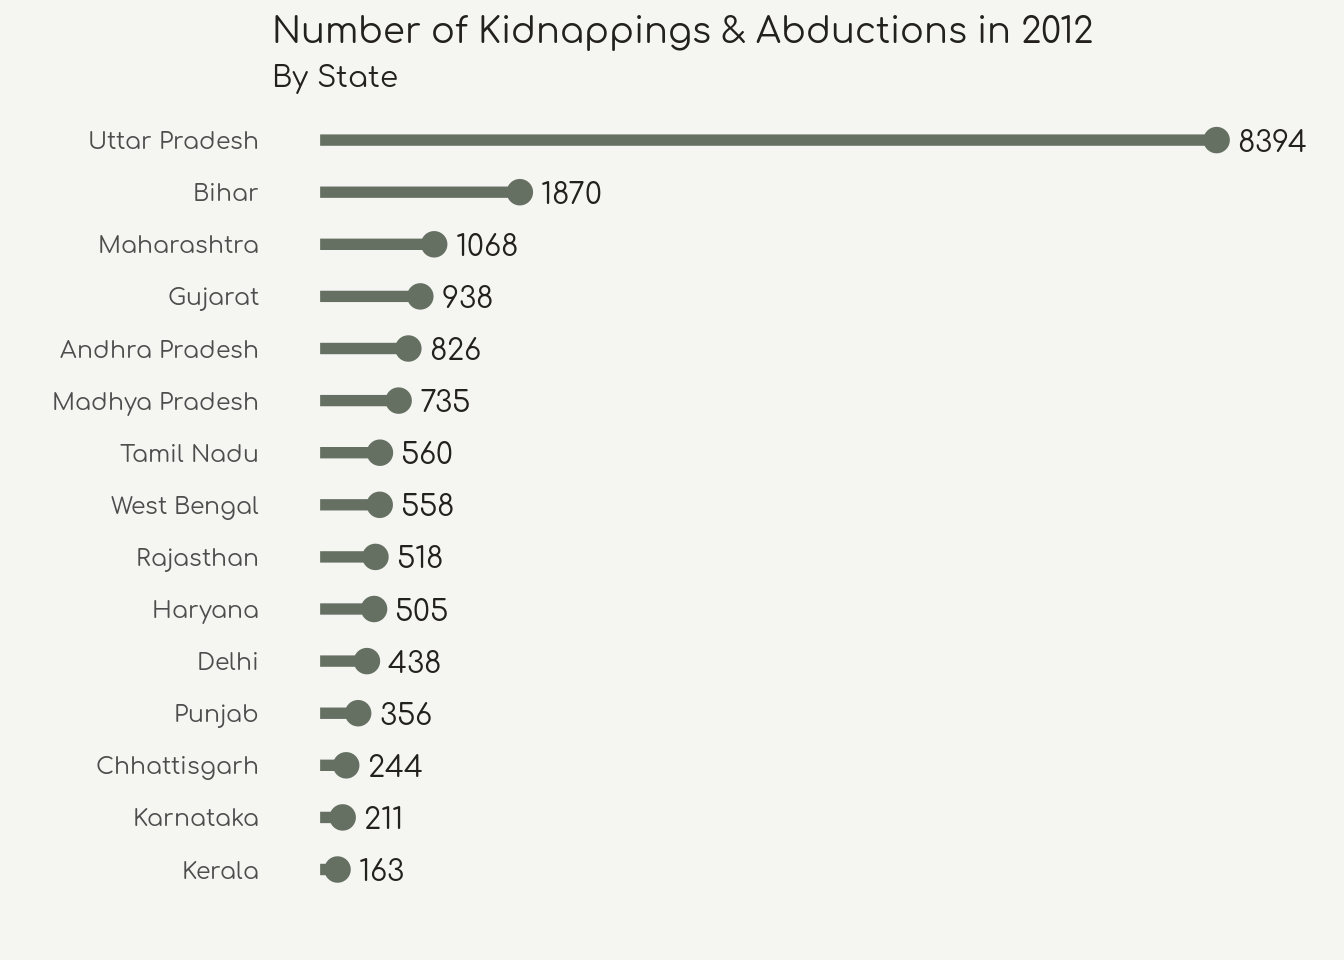
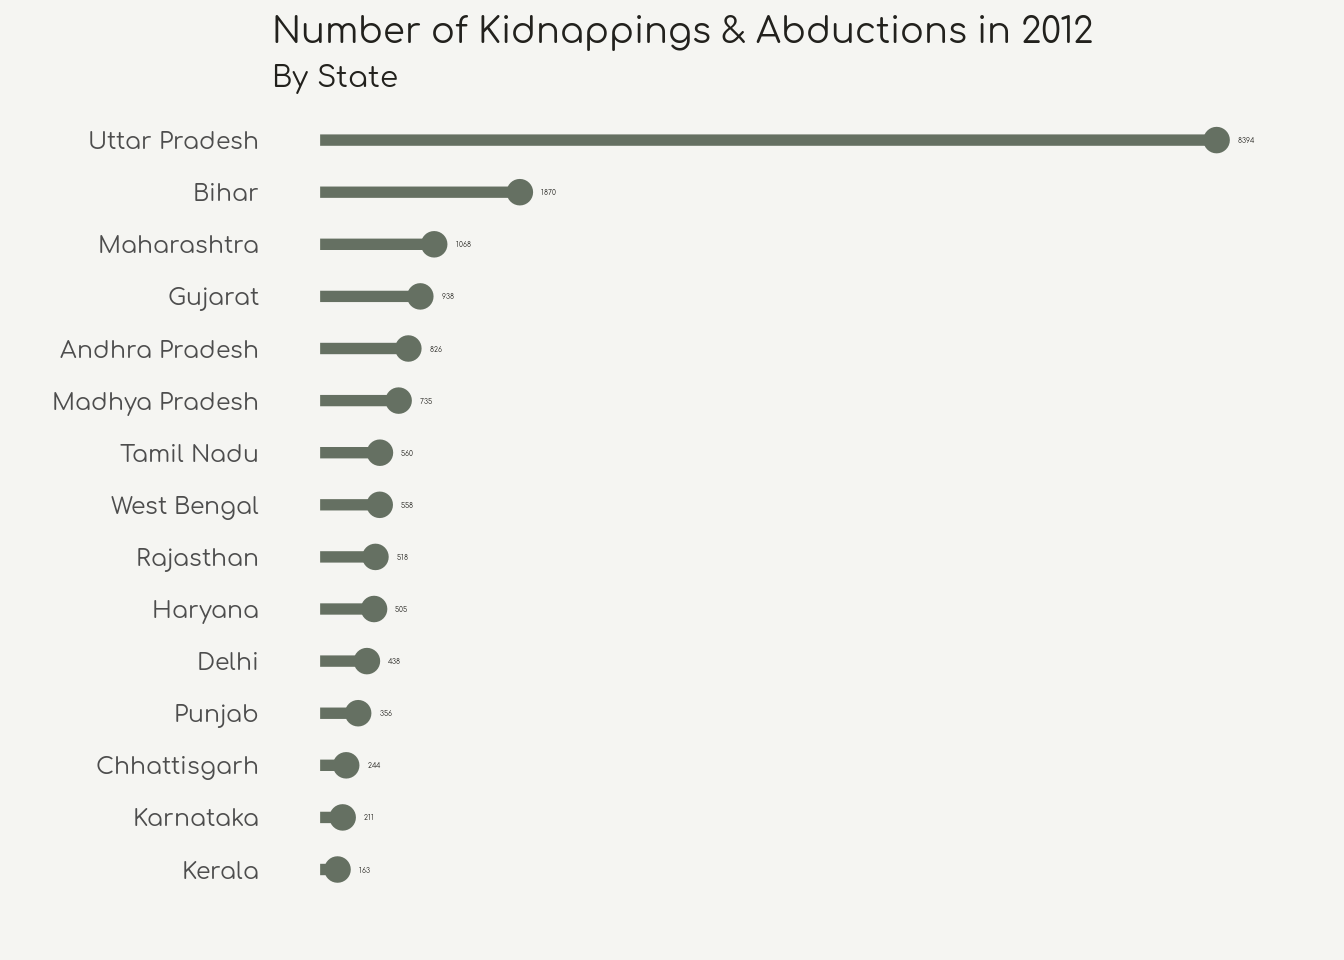
updated level plot may not last

diff --git a/content/blog/2018-02-22-crime-against-children-in-india.html b/content/blog/2018-02-22-crime-against-children-in-india.html
@@ -236,7 +236,8 @@ df %&gt;%
   geom_segment(aes(y = 0, yend = df, x = state_ut, xend = state_ut), col = lollipop_color, size = 2) +
   geom_point(stat=&#39;identity&#39;, col = lollipop_color, size = 4) + 
   coord_flip() +
-  geom_text(aes(y = df, x = state_ut, label = df), nudge_y = 200, hjust = 0, family = my_font, color = &quot;#22211d&quot;) +
+  geom_text(aes(y = df, x = state_ut, label = df), 
+            nudge_y = 200, hjust = 0, family = my_font, color = &quot;#22211d&quot;, size = rel(0.9)) +
   expand_limits(y = c(0, 9000)) +
   labs(title = &#39;Number of Kidnappings &amp; Abductions in 2012&#39;,
        subtitle = &#39;By State&#39;, 
@@ -250,27 +251,36 @@ df %&gt;%
 <h4>Levelplot</h4>
 <p>The next question I have is <em>what crimes are most significant in each state?</em> A heatmap (or levelplot) might be the best way to visualize this. This also allows us to visualize the most prevalent crimes throughout India.</p>
 <pre class="r"><code>level_data &lt;- df %&gt;%
-  filter(year == &#39;2012&#39;, crime_head != &quot;Total Crimes Against Children&quot;) 
+  filter(year == &#39;2012&#39;, crime_head != &quot;Total Crimes Against Children&quot;) %&gt;%
+  mutate(crime_head = str_remove(crime_head, &quot; Of Children&quot;))
 
 colnames(level_data) &lt;- c(&quot;State&quot;,&quot;Crime&quot;,&quot;Year&quot;,&quot;Count&quot;)
 
+label_start &lt;- c(0,10^1,10^2,10^3)
+label_end &lt;- c(10^1, 10^2, 10^3, 10^4)
+
+level_data$bin &lt;- cut(level_data$Count, breaks=c(0,10^1,10^2,10^3,10^4), 
+                      labels=c(paste0(label_start,&quot; - &quot;,label_end)), 
+                      include.lowest = TRUE)
+
 level_data %&gt;% 
   mutate(State = reorder(State, desc(State))) %&gt;%
-  ggplot(aes(x=Crime,y=State, z=Count)) +
-    geom_tile(aes(fill = Count)) + 
+  ggplot(aes(x=Crime,y=State, z=bin)) +
+    geom_tile(aes(fill = bin)) + 
     theme(axis.text.x = element_text(angle=90, hjust=1),
           panel.grid = element_blank(), 
           plot.title = element_text(hjust = 0, face = &quot;bold&quot;),
-          legend.key.height = unit(18, &quot;mm&quot;), 
-          legend.key.width = unit(4, &quot;mm&quot;),
-          legend.box.just = &quot;top&quot;) +
-    scale_fill_gradient(name = &quot;No. of\nCrimes&quot;,
-                        low = my_bkgd,
-                        high = ghibli_palettes$MononokeDark[2]) + 
+          plot.margin = margin(10,70,10,20),
+          legend.position = &quot;top&quot;) +
+  scale_fill_manual(values = ghibli_palettes$MononokeMedium, name = &quot;No. of Crimes (log scale)&quot;,
+                    guide = guide_legend(keyheight = unit(2, units = &quot;mm&quot;), 
+                                         keywidth = unit(18, units = &quot;mm&quot;), 
+                                         title.position = &quot;top&quot;, label.position = &quot;bottom&quot;,
+                                         title.hjust = 0, label.hjust = 0.1, nrow = 1)) +
     labs(x = &quot;&quot;, y = &quot;&quot;,
          title = &quot;Number of Crimes by State - 2012&quot;,
          subtitle = &quot;&quot;)</code></pre>
-<p><img src="/blog/2018-02-22-crime-against-children-in-india_files/figure-html/heatmap-1.png" width="480" /></p>
+<p><img src="/blog/2018-02-22-crime-against-children-in-india_files/figure-html/heatmap-1.png" width="576" /></p>
 <p>As you can see, kidnappings and rape seem most significant across India. ‘Other’ crime is also significant – more research is necessary to learn what that comprises. It also appears that about half of the crimes are very low or 0 by count, which makes me suspect that data was unavaliable or that such crimes don’t often get reported or prosecuted.</p>
 </div>
 <div id="total-crime-by-state" class="section level4">
